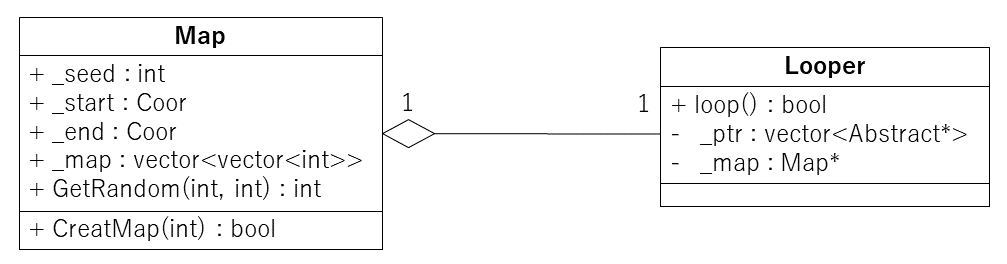
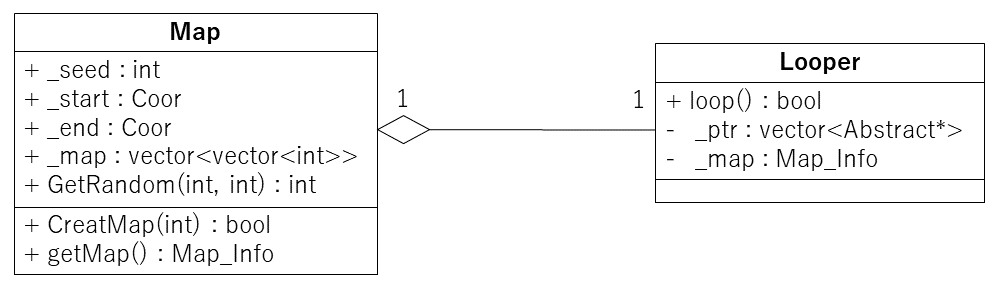
commit

Changed region(s): [[0.0, 0.0303, 0.994, 0.9697], [0.6523, 0.7576, 0.994, 0.7879]]

diff --git a/c++/Refactoring/Maze_Search_Algorithm/README.md b/c++/Refactoring/Maze_Search_Algorithm/README.md
@@ -10,30 +10,34 @@ http://objectclub.jp/technicaldoc/refactoring/refact-what
 
 ## 行ったリファクタリングについて
 
-### 問題点1
+### 問題点
 Main関数がマップの生成と各探索手法を行うクラスの呼び出し・管理をしていたため，読みにくくなっていた．
 また，迷路探索を行うときに同じWhile文が手法の数だけ出来てしまうような，コードクローンが見られたためこの改善を行いました．
-青で囲っている部分がコードクローンです．
+下の図の青で囲っている部分がコードクローンです．
 
 <img src="./img/dup.png" width="350">
 
-### 改善方法
+#### 改善方法
 改善方法としてクラスの追加を行いました．
 それに伴い，設計の変更をしました．
+この改善により，手法の実行はLooperクラスが一括管理しているため，
+新たな探索手法の追加の容易性が見込める．
+また，迷路の生成などもMapクラスが一括で管理するため，迷路の生成手法を追加するときのコードの複雑化を低減できると考えています．
 
-### 追加したクラス
-#### Looperクラス：
+#### 追加したクラス
+##### Looperクラス
 各手法を呼び出し管理する．このクラスをWhile文で回すだけで，すべての手法の実行が出来る形にしました．
 
-#### Mapクラス：
+##### Mapクラス
 このクラスが迷路を管理するようにしました．
 ランダム作成，スタート座標とゴール座標の保持をします．
 
-#### 追加したクラスについて
+##### 追加したクラスについて
 <img src="./img/added.png" width="400">
 
-#### 変更前のクラス図
+##### 変更前のクラス図
 <img src="./img/class1.png" width="400">
 
-#### 変更後のクラス図
+##### 変更後のクラス図
 <img src="./img/class2.png" width="400">
+
